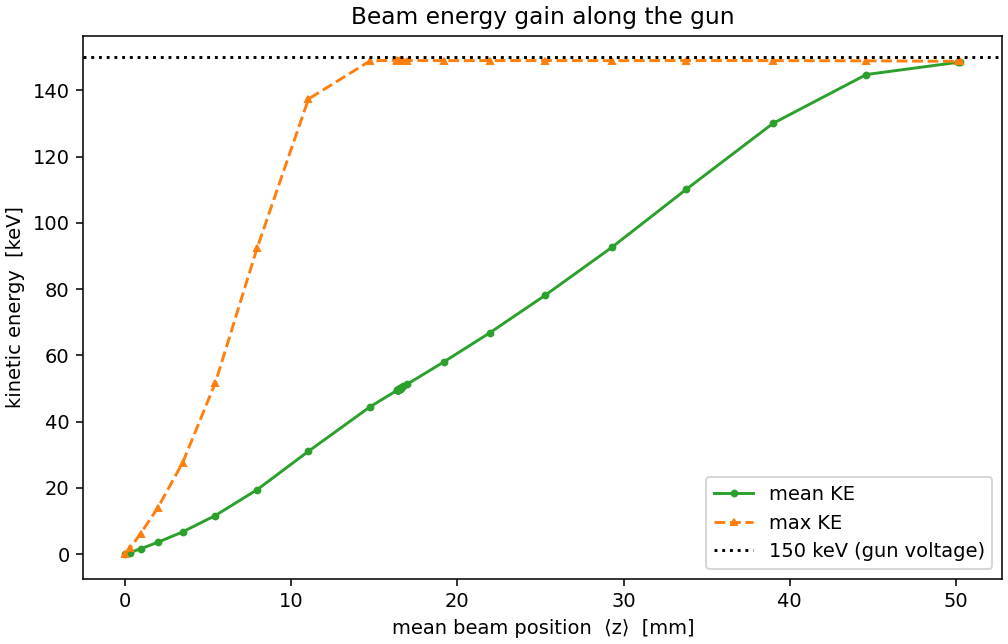
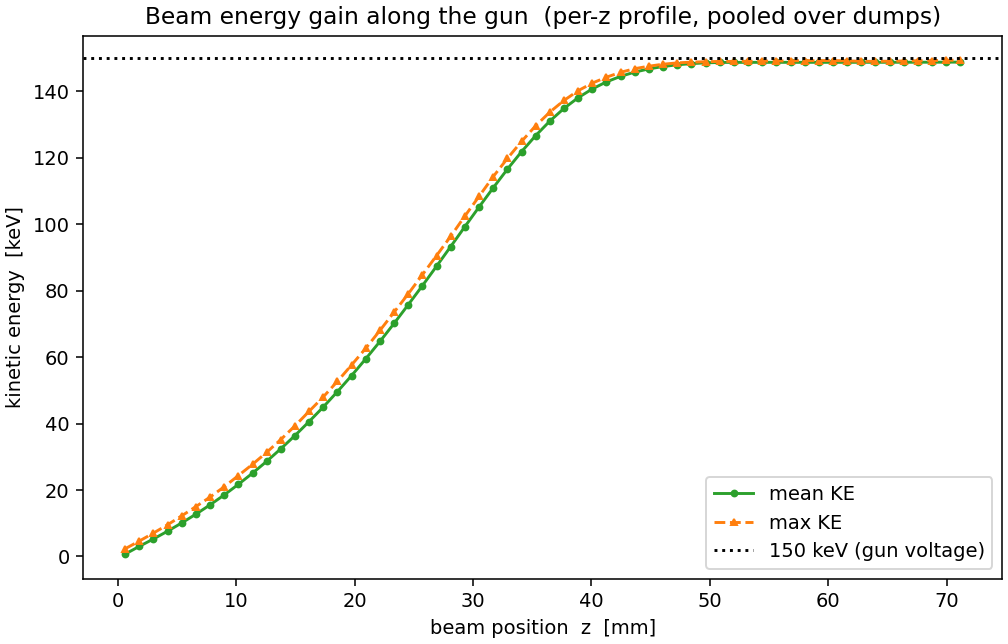
gun: fix physics-review findings in the time-release exit-beam handoff
Phase-2 fixes from the multi-agent physics review of the time-release commit.

CRITICAL (handoff εn,x inflated ~8×): build_exit_handoff drifted each id's last
in-domain dump to a common time, but the domain ended exactly at the field map
(no field-free region), so ~68% of ids were last-recorded still in-field and
drifting them as if field-free manufactured a spurious x-u correlation
(εn,x 6 -> 57 µm). Fix: extend the domain a field-free drift pad (ZPAD=20mm)
past ZMAX_FIELD (WarpX zero-fills the applied field beyond the map, verified),
grid nz 512->712 to keep dz~0.10mm across field+pad, and sample each id at its
FIRST appearance in the field-free pad before drifting. The handoff εn,x is now
the correct PROJECTED emittance of the long instantaneous beam (~45 µm; the
per-slice beam quality is ~5.7, the beam_envelope plateau).

HIGH (dead radial-loss filter): the r-at-last-dump test dropped 0 because
absorbed particles vanish before appearing at r>=RMAX. Now classify
non-pad-reaching ids as radial (r=RMAX) loss vs un-flushed tail (~0.4%).

MLMG abort: run length is now sized on the FIELD transit (not the padded domain)
so the run stops while the beam is in the pad; draining the padded domain empties
it and aborts the self-field solve.

MEDIUM (misleading figures): plot_gun energy_gain/beam_envelope aggregated per
DUMP <z>, meaningless for the quasi-DC stream (pins <z>, plots whole-stream
chromatic εn,x ~50). Now bins pooled particles by actual z (per-z profile).
[…]

diff --git a/gun/gun_sim.py b/gun/gun_sim.py
@@ -38,13 +38,15 @@ grid pulse (cathode_master.in `twidth=2`), four gun-transit-times long, so the p
 beam is a long, low-density quasi-DC stream — the original GPT deck emits it that way via
 `settdist(...,"t",...)`. Releasing the whole bunch at one instant ("snapshot") instead
 over-concentrates the charge and over-states the space-charge force (the WarpX–GPT
-150 kV-gun cross-code benchmark in CornellMisc/.../bench/writeup measured this beam-
-representation effect at ~28 % on emittance; here the over-dense snapshot also blows ~19 %
-of the beam off as halo it would otherwise keep). We therefore release the imported
-macroparticles over `PULSE_WIDTH` via a per-step injection callback (the benchmark's
-warpx_tr.py technique), and reconstruct the full ~2 ns exit beam for the injector by id-
-tracking it across the exit plane (`build_exit_handoff`). "snapshot" is kept for speed and
-back-compat. See README → *Beam source* for the handoff and the injector-retuning caveat.
+150 kV-gun cross-code benchmark in CornellMisc/.../bench/writeup put the *controlled* beam-
+representation term at ~28 % on emittance; here the over-dense snapshot ALSO blows the halo to
+the wall — ≈81 % vs ≈100 % transmission — so the two modes' raw εn,x are computed on different
+particle sets and their difference is confounded, see README). We release the imported
+macroparticles over `PULSE_WIDTH` (uniform/flat-top — the real pulse has 30 V/ns edge ramps,
+not modelled) via a per-step injection callback (the benchmark's warpx_tr.py technique), and
+reconstruct the full exit beam for the injector by id-tracking it through the field-free pad
+past the field map (`build_exit_handoff`). "snapshot" is kept for speed and back-compat. See
+README → *Beam source* for the handoff and the injector-retuning caveat.
 """
 
 import os
@@ -66,7 +68,18 @@ ep0 = picmi.constants.ep0
 GUN_FIELD = "gun/gun_field/gun_E.h5"
 GUN_VOLTAGE = 150.0e3        # [V]
 RMAX = 0.015                 # field-map R extent [m]
-ZMAX = 0.051765              # field-map Z extent [m]
+ZMAX_FIELD = 0.051765        # field-map Z extent [m] — the gun field ends here (Ez→0 at the
+                             # map edge, verified) and is the physical exit plane.
+# The RZ DOMAIN extends a field-free drift pad past the field map. WarpX zero-fills the
+# applied field beyond the map (verified), so z ∈ (ZMAX_FIELD, ZMAX] is a field-free drift.
+# This pad is REQUIRED by the timed-mode exit-beam reconstruction: build_exit_handoff samples
+# each particle AFTER it clears the field, in field-free space, where the drift-to-a-common-
+# time is emittance-preserving. Without the pad the domain ended exactly at the field map, so
+# the reconstruction drifted still-in-field particles as if field-free and inflated εn,x ~8×
+# (physics-review CRITICAL). ZPAD ≥ one inter-dump z-step (≈ v_exit·run_time/N_DIAGS ≈ 13 mm)
+# so every exiting particle is caught in ≥1 field-free dump before it leaves the domain.
+ZPAD = 0.020                 # field-free drift pad past the field map [m]
+ZMAX = ZMAX_FIELD + ZPAD     # full RZ domain z-extent [m]
 
 CATHODE_DIAG = "cathode/diags/particles"
 BUNCH_CHARGE = 1.0e-9        # renormalized gun bunch charge [C] = 1 nC, matching the
@@ -98,12 +111,13 @@ HANDOFF_DIR = "gun/diags/handoff"   # timed mode reconstructs the full released 
                              # dumps) for the injector; snapshot mode leaves it absent.
 
 # ── Grid (RZ, single azimuthal mode — the gun field is m = 0) ─────────────────
-# 128×512 (was 96×384): the WarpX–GPT 150 kV-gun cross-code benchmark
+# 128 (r) × 712 (z): the WarpX–GPT 150 kV-gun cross-code benchmark
 # (CornellMisc/.../bench/writeup) found εn,x falls ~4 % and only converges once the
 # grid resolves the near-cathode dynamics (their RZ study converged by nz≈720 over
-# 55 mm); the old nz=384 over 51.77 mm (dz≈135 µm) sat on the unconverged side. The
-# 1.33× refinement keeps the gun's near-isotropic cell aspect (dz/dr≈0.86).
-nr, nz = 128, 512            # divisible by the blocking factor (8)
+# 55 mm); the old nz=384 over 51.77 mm (dz≈135 µm) sat on the unconverged side. nz=712
+# over the padded 71.77 mm domain keeps dz≈101 µm (near-isotropic dz/dr≈0.86) across
+# BOTH the field region and the field-free pad (uniform grid).
+nr, nz = 128, 712            # divisible by the blocking factor (8)
 
 # ── Diagnostics output directory ──────────────────────────────────────────────
 DIAG_DIR = "gun/diags"
@@ -220,21 +234,26 @@ def build_exit_handoff():
     """Reconstruct the full time-released exit beam and write it for the injector.
 
     Time-release makes the gun beam a ~2 ns quasi-DC stream whose ballistic z-extent
-    (~v_exit·PULSE_WIDTH ≈ 0.38 m) is many times the 51.77 mm gun domain, so no single
-    volumetric snapshot can hold the whole released beam. We instead reconstruct it from
-    the volumetric dumps the same way `pipeline/collimator.py` tracks the iris scrape —
-    by particle **id** across dumps:
+    (~v_exit·PULSE_WIDTH ≈ 0.4 m) is many times the gun domain, so no single volumetric
+    snapshot can hold the whole released beam. We reconstruct it from the volumetric dumps
+    by particle **id** (the `pipeline/collimator.py` idiom), sampling each particle in the
+    FIELD-FREE pad past the field map so the reconstruction is emittance-correct:
 
-      1. For each macroparticle, find its LAST appearance (latest dump it is present in).
-      2. A particle last seen near the outer radial wall (r ≥ RMAX − tol) was scraped by
-         the pipe → dropped. Everything else left (or is leaving) through the z = ZMAX
-         exit plane → kept.
-      3. Drift every kept particle ballistically (field-free, past the map end) to a common
-         reference time t_ref = max last-appearance time, rebuilding one consistent
-         snapshot: early-emitted → exited early → drifted furthest → the bunch HEAD
-         (largest z); last-emitted → still at ZMAX → the TAIL. This matches the injector's
-         `z − z.min() + Z_INJECT` (tail at the entrance) convention and is the same
-         drift-to-a-common-reference the cross-code benchmark uses to read εn,x.
+      1. For each id, find its FIRST appearance with z ≥ ZMAX_FIELD — i.e. just after it
+         clears the gun field into the field-free pad. Its (x, u) there IS the exit-plane
+         phase space (the field is ≈0 beyond ZMAX_FIELD). Sampling in the pad — NOT at the
+         particle's last in-field dump — is the fix for the εn,x inflation: a field-free
+         ballistic drift preserves εn,x, but drifting a still-in-field particle as if
+         field-free manufactures a spurious x–u correlation (physics-review CRITICAL).
+      2. An id that NEVER reaches z ≥ ZMAX_FIELD did not exit: if it is still present in the
+         final dump it is the un-flushed tail (run ended first); otherwise it was absorbed
+         before the pad, i.e. scraped at the r = RMAX wall (the only other boundary) → a
+         radial loss. Both are dropped and counted (this correctly identifies losses — the
+         old r-at-last-dump test was a no-op because absorbed particles vanish at r<RMAX).
+      3. Drift the kept (field-free) samples to a common reference time t_ref = max sample
+         time — all motion is field-free so εn,x is preserved. early-emitted → exited
+         early → drifted furthest → bunch HEAD (largest z); last-emitted → z≈ZMAX_FIELD →
+         TAIL, matching the injector's `z − z.min() + Z_INJECT` (tail at the entrance).
 
     Writes an openPMD particle dump to HANDOFF_DIR via `pipeline.impact_io`. The injector's
     `load_gun_bunch` reads HANDOFF_DIR when present (else the volumetric snapshot).
@@ -243,16 +262,15 @@ def build_exit_handoff():
     from pipeline.impact_io import write_openpmd_particles
 
     MC2_EV = 510998.95069
-    r_tol = 2.0 * (RMAX / nr)        # within ~2 radial cells of the pipe ⇒ radial loss
     pdir = os.path.join(DIAG_DIR, "particles")
     ts = OpenPMDTimeSeries(pdir)
     if len(ts.iterations) == 0:
         print("  handoff: no volumetric dumps to reconstruct from — skipped", flush=True)
         return
 
-    # Stack every (id, dump) row, then keep each id's LAST appearance (latest dump time).
-    # Vectorized so the ~Npart×Ndumps rows never hit a Python-level loop.
+    # Stack every (id, dump) row. Vectorized so the ~Npart×Ndumps rows never hit a loop.
     cols = {k: [] for k in ("id", "t", "x", "y", "z", "ux", "uy", "uz", "w")}
+    final_it = ts.iterations[-1]
     for it, t_dump in zip(ts.iterations, ts.t):
         idp, x, y, z, ux, uy, uz, w = ts.get_particle(
             ["id", "x", "y", "z", "ux", "uy", "uz", "w"],
@@ -266,28 +284,38 @@ def build_exit_handoff():
         print("  handoff: no particles tracked — skipped", flush=True)
         return
     cat = {k: np.concatenate(v) for k, v in cols.items()}
-    # Sort by (id, t); the last row of each id-group is its last appearance.
-    order = np.lexsort((cat["t"], cat["id"]))
-    sid = cat["id"][order]
-    keep_last = np.empty(sid.size, dtype=bool)
-    keep_last[-1] = True
-    keep_last[:-1] = sid[1:] != sid[:-1]           # True where the id changes (group end)
-    pick = order[keep_last]
-    t_last = cat["t"][pick]
+    n_ids = np.unique(cat["id"]).size
+
+    # First appearance in the FIELD-FREE pad (z ≥ ZMAX_FIELD) per id: restrict to pad rows,
+    # sort by (id, t), take the earliest-t row of each id-group.
+    pad = np.where(cat["z"] >= ZMAX_FIELD)[0]
+    if pad.size == 0:
+        print("  handoff: no particle reached the field-free pad (z ≥ "
+              f"{ZMAX_FIELD*1e3:.1f} mm) — run longer? skipped", flush=True)
+        return
+    order = np.lexsort((cat["t"][pad], cat["id"][pad]))
+    sid = cat["id"][pad][order]
+    first = np.empty(sid.size, dtype=bool)
+    first[0] = True
+    first[1:] = sid[1:] != sid[:-1]                # True at each id-group start (earliest t)
+    pick = pad[order[first]]
+    t_s = cat["t"][pick]
     x, y, z = cat["x"][pick], cat["y"][pick], cat["z"][pick]
     ux, uy, uz, w = cat["ux"][pick], cat["uy"][pick], cat["uz"][pick], cat["w"][pick]
-    r = np.hypot(x, y)
-    kept = r < (RMAX - r_tol)                       # else: scraped at the pipe wall
-    n_lost = int((~kept).sum())
-    t_last, x, y, z, ux, uy, uz, w = (a[kept] for a in (t_last, x, y, z, ux, uy, uz, w))
-    if x.size == 0:
-        print("  handoff: every tracked particle hit the pipe wall — skipped", flush=True)
-        return
+    n_exit = pick.size
 
-    # Ballistic drift to the common reference time t_ref = max(t_last).
+    # Classify the ids that never reached the pad: still in the final dump → un-flushed tail;
+    # else absorbed before the pad → radial (r=RMAX) loss.
+    exited_ids = set(cat["id"][pick].tolist())
+    final_ids = set(cat["id"][cat["t"] == ts.t[-1]].tolist()) if len(ts.t) else set()
+    not_exited = [i for i in np.unique(cat["id"]).tolist() if i not in exited_ids]
+    n_unflushed = sum(1 for i in not_exited if i in final_ids)
+    n_radial = len(not_exited) - n_unflushed
+
+    # Ballistic drift of the field-free samples to a common reference time t_ref = max(t_s).
     gamma = np.sqrt(1.0 + ux**2 + uy**2 + uz**2)
     vx, vy, vz = (c * ux / gamma, c * uy / gamma, c * uz / gamma)
-    dtau = t_last.max() - t_last
+    dtau = t_s.max() - t_s
     xh, yh, zh = x + vx * dtau, y + vy * dtau, z + vz * dtau
 
     pg = ParticleGroup(data=dict(
@@ -301,8 +329,9 @@ def build_exit_handoff():
     if os.path.isdir(HANDOFF_DIR):
         shutil.rmtree(HANDOFF_DIR)
     write_openpmd_particles(pg, HANDOFF_DIR, iteration=0, time=0.0)
-    print(f"  handoff: {xh.size} exit-beam macroparticles "
-          f"({pg.charge*1e9:.3f} nC, {n_lost} scraped at the pipe), "
+    print(f"  handoff: {n_exit}/{n_ids} macroparticles cleared the field "
+          f"({pg.charge*1e9:.3f} nC, transmission {100*n_exit/n_ids:.0f}%; "
+          f"{n_radial} radial loss, {n_unflushed} un-flushed), "
           f"z-extent {(zh.max()-zh.min())*1e3:.0f} mm → {HANDOFF_DIR}", flush=True)
 
 
@@ -382,13 +411,15 @@ def main():
     # Steps for the bunch to just cross the full gun (average speed ~AVG_SPEED_FRAC·v_exit).
     # We stop as the beam reaches the exit: running longer empties the domain, and
     # the Multigrid self-field solve aborts when there is essentially no charge left.
-    # In timed mode the gun stays populated until the LAST-emitted particle (released at
-    # t=PULSE_WIDTH) has crossed, so the run is PULSE_WIDTH + one transit long (the domain
-    # never fully empties mid-run, so the MLMG solve is not starved). MAX_STEPS (module
+    # Run length is sized on the time to clear the FIELD region (ZMAX_FIELD), NOT the full
+    # padded domain: the run must STOP while the beam is still in the field-free pad, before
+    # it drains out the padded ZMAX — an empty domain aborts the MLMG self-field solve
+    # (`MLMG failed`). At PULSE_WIDTH + TRANSIT_MARGIN·transit_field the last-released particle
+    # has cleared the field into the pad (caught in ≥1 field-free dump for the handoff) while
+    # the bulk is still transiting, so the solve is never charge-starved. MAX_STEPS (module
     # constant, 0 = auto) overrides the derived value when set.
-    transit_time = ZMAX / (AVG_SPEED_FRAC * v_exit)
-    run_time = (PULSE_WIDTH + TRANSIT_MARGIN * transit_time) if timed \
-        else (TRANSIT_MARGIN * transit_time)
+    transit_field = ZMAX_FIELD / (AVG_SPEED_FRAC * v_exit)
+    run_time = (PULSE_WIDTH if timed else 0.0) + TRANSIT_MARGIN * transit_field
     max_steps = MAX_STEPS or int(run_time / dt)
 
     print(f"Gun: {GUN_VOLTAGE/1e3:.0f} kV  ->  γ={gamma:.3f}, β={v_exit/c:.3f}, "

diff --git a/gun/plot_gun.py b/gun/plot_gun.py
@@ -80,6 +80,14 @@ def main():
 
     t_ns, zmean, ke_mean, ke_max, n_live = [], [], [], [], []
     sig_r, emit_nx = [], []           # for beam_envelope.png (filled in the same loop)
+    # Pooled (all-dump) particle columns for the per-z PROFILE used by energy_gain /
+    # beam_envelope. A per-DUMP ⟨z⟩ aggregate traces a compact bunch but is meaningless for
+    # the timed quasi-DC stream — every dump then holds the whole 0→exit stream, so ⟨z⟩ is
+    # pinned mid-domain and the per-dump εn,x is the whole-stream chromatic mix (~50 mm·mrad,
+    # NOT the exit emittance). Binning every dump's particles by their ACTUAL z instead gives
+    # the physical steady-state profile KE(z)/σ_x(z)/εn,x(z), and reduces to the bunch
+    # trajectory for the compact snapshot beam (see beam_envelope/energy_gain below).
+    z_pool, ke_pool, x_pool, ux_pool, w_pool = [], [], [], [], []
     for i, it in enumerate(iters):
         z, x, ux, uy, uz, w = ts.get_particle(
             ["z", "x", "ux", "uy", "uz", "w"], species="electrons", iteration=it)
@@ -92,6 +100,7 @@ def main():
         ke = (gamma_of(ux, uy, uz) - 1.0) * MC2
         zmean.append(z.mean() * 1e3)
         ke_mean.append(ke.mean()); ke_max.append(ke.max())
+        z_pool.append(z); ke_pool.append(ke); x_pool.append(x); ux_pool.append(ux); w_pool.append(w)
         # ── Envelope diagnostics (one transverse plane; RZ ⇒ x and y are equivalent) ──
         # Per-plane RMS size σ_x = sqrt(⟨(x−⟨x⟩)²⟩), reported in mm — weighted and
         # mean-centered, matching pipeline/plot_chain.py so the two figures agree on the
@@ -113,6 +122,29 @@ def main():
     print(f"beam: {n_live[0]} launched, {n_live[-1]} at last dump; "
           f"peak ⟨KE⟩ {np.nanmax(ke_mean):.1f} keV, max KE {np.nanmax(ke_max):.1f} keV")
 
+    # ── Per-z PROFILE (pooled over all dumps), binned by actual z ──────────────
+    # See the pooling note above: this is the physically meaningful aggregation for the
+    # timed quasi-DC stream (and equivalent to the trajectory for the snapshot bunch).
+    zc = kez = kezmax = sxz = enz = np.array([])
+    if z_pool:
+        zP = np.concatenate(z_pool); keP = np.concatenate(ke_pool)
+        xP = np.concatenate(x_pool); uxP = np.concatenate(ux_pool); wP = np.concatenate(w_pool)
+        nbin = 60
+        edges = np.linspace(0.0, zP.max(), nbin + 1)
+        idx = np.clip(np.digitize(zP, edges) - 1, 0, nbin - 1)
+        zc = 0.5 * (edges[:-1] + edges[1:]) * 1e3      # bin centers [mm]
+        kez = np.full(nbin, np.nan); kezmax = np.full(nbin, np.nan)
+        sxz = np.full(nbin, np.nan); enz = np.full(nbin, np.nan)
+        for b in range(nbin):
+            m = idx == b
+            if m.sum() < 20:                            # ignore sparse edge bins
+                continue
+            xb, uxb, wb, keb = xP[m], uxP[m], wP[m], keP[m]
+            kez[b] = np.average(keb, weights=wb); kezmax[b] = keb.max()
+            xm = np.average(xb, weights=wb)
+            sxz[b] = np.sqrt(np.average((xb - xm) ** 2, weights=wb)) * 1e3
+            enz[b] = rms_emit(xb, uxb, wb) * 1e6
+
     # ── Fig 2: r–z at launch / mid / exit ─────────────────────────────────────
     live = [it for it, n in zip(iters, n_live) if n > 0]
     picks = [live[0], live[len(live)//2], live[-1]] if len(live) >= 3 else live
@@ -130,15 +162,15 @@ def main():
     fig.savefig(f"{RESULTS}/beam_rz.png", dpi=140)
     print(f"wrote {RESULTS}/beam_rz.png")
 
-    # ── Fig 3: energy gain vs ⟨z⟩ ─────────────────────────────────────────────
+    # ── Fig 3: energy gain vs z (per-z profile, pooled over dumps) ─────────────
     fig, ax = plt.subplots(figsize=(7.2, 4.6), constrained_layout=True)
-    ok = np.isfinite(zmean)
-    ax.plot(zmean[ok], ke_mean[ok], "o-", color="C2", ms=3, label="mean KE")
-    ax.plot(zmean[ok], ke_max[ok], "^--", color="C1", ms=3, label="max KE")
+    okz = np.isfinite(kez)
+    ax.plot(zc[okz], kez[okz], "o-", color="C2", ms=3, label="mean KE")
+    ax.plot(zc[okz], kezmax[okz], "^--", color="C1", ms=3, label="max KE")
     ax.axhline(GUN_VOLTAGE / 1e3, color="k", ls=":", label=f"{GUN_VOLTAGE/1e3:.0f} keV (gun voltage)")
-    ax.set_xlabel("mean beam position  ⟨z⟩  [mm]")
+    ax.set_xlabel("beam position  z  [mm]")
     ax.set_ylabel("kinetic energy  [keV]")
-    ax.set_title("Beam energy gain along the gun")
+    ax.set_title("Beam energy gain along the gun  (per-z profile, pooled over dumps)")
     ax.legend()
     fig.savefig(f"{RESULTS}/energy_gain.png", dpi=140)
     print(f"wrote {RESULTS}/energy_gain.png")
@@ -162,16 +194,16 @@ def main():
     # ══════════════════════════════════════════════════════════════════════════
     # Fig 5: beam_envelope.png — per-plane RMS size σ_x and emittance εn,x vs ⟨z⟩
     # ──────────────────────────────────────────────────────────────────────────
-    ok = np.isfinite(zmean) & np.isfinite(sig_r)
+    okz = np.isfinite(sxz) & np.isfinite(enz)
     fig, ax = plt.subplots(figsize=(7.6, 4.6), constrained_layout=True)
-    l1, = ax.plot(zmean[ok], sig_r[ok], "o-", color="C0", ms=3,
+    l1, = ax.plot(zc[okz], sxz[okz], "o-", color="C0", ms=3,
                   label=r"RMS size  $\sigma_x=\sqrt{\langle x^2\rangle}$")
-    ax.set_xlabel("mean beam position  ⟨z⟩  [mm]")
+    ax.set_xlabel("beam position  z  [mm]")
     ax.set_ylabel(r"per-plane RMS size  $\sigma_x$  [mm]", color="C0")
     ax.tick_params(axis="y", labelcolor="C0")
-    ax.set_title("Transverse envelope and emittance along the gun")
+    ax.set_title("Transverse envelope and emittance along the gun  (per-z profile)")
     ax2 = ax.twinx()
-    l2, = ax2.plot(zmean[ok], emit_nx[ok], "s--", color="C3", ms=3,
+    l2, = ax2.plot(zc[okz], enz[okz], "s--", color="C3", ms=3,
                    label=r"norm. emittance  $\varepsilon_{n,x}$")
     ax2.set_ylabel(r"$\varepsilon_{n,x}$  [mm·mrad]", color="C3")
     ax2.tick_params(axis="y", labelcolor="C3")

diff --git a/pipeline/run_pipeline.py b/pipeline/run_pipeline.py
@@ -89,9 +89,15 @@ linac_rest.config(POWER_MW=11.0)                      # one power convention acr
 
 # ── Performance knobs (accuracy ↔ speed). Full knob list, runtime split, and the
 #    reason the injector NZ must stay at 1664: see pipeline/README.md § Configuration. ──
-# Balanced profile: ACTIVE (~1.7×, ~5 min). Comment these 3 lines for the baseline.
+# Balanced profile: ACTIVE. Comment these 3 lines for the baseline. NOTE: the gun now defaults
+# to the realistic time-release beam (BEAM_RELEASE="timed") over the full 2 ns pulse on a
+# field-free-padded grid, plus the ~2×-per-step electromagnetostatic self-field — so the GUN
+# dominates the chain runtime (several minutes) regardless of this profile. nz=384 here is a
+# Balanced resolution over the padded 71.77 mm domain (dz≈0.19 mm); the default is 712. For a
+# quick smoke run use gun.config(BEAM_RELEASE="snapshot") (NOT realistic — over-states space
+# charge) and/or a coarser nz.
 cathode.config(PPC=6, REQUIRED_PRECISION=3e-5)
-gun.config(nz=256, MAX_PART=50000, REQUIRED_PRECISION=1e-4)
+gun.config(nz=384, MAX_PART=50000, REQUIRED_PRECISION=1e-4)
 injector.config(CFL=0.95, MAX_ITERS=150, REQUIRED_PRECISION=1e-3)
 # Conservative (~1.3×, near-identical):
 # gun.config(MAX_PART=80000, REQUIRED_PRECISION=1e-4)

diff --git a/pipeline/plot_chain.py b/pipeline/plot_chain.py
@@ -35,8 +35,10 @@ PHYSICS / UNITS NOTES (reviewer-flagged):
     (gun/injector downsample-reweight), so panel (5) shows WITHIN-stage transmission and the
     waterfall stitches the true end-to-end chain via the recorded denominators.
   - Lab-frame ES self-field overestimates transverse space charge by ~γ² (≈1.66× at β≈0.7);
-    the injector/linac σ_x and capture numbers are conservative (pessimistic) — noted on the
-    panels.
+    this applies to the **injector/linac** stages (still lab-frame ES, and SC-dominant), whose
+    σ_x and capture numbers are therefore conservative (pessimistic) — noted on the panels. The
+    GUN is the exception: it uses the electromagnetostatic solver (self-B pinch ⇒ net qE_r/γ²),
+    so it carries no γ² overestimate.
 """
 
 import os

diff --git a/.claude/CLAUDE.md b/.claude/CLAUDE.md
@@ -97,7 +97,7 @@ Each stage lives in its own `<stage>/` directory and follows the same script lay
 `pipeline/run_pipeline.py` orchestrates the whole chain by calling `cathode.run()`, `gun.run()`, `injector.run()`, `linac_sec1.run()`, `linac_rest.run()` in order, then `pipeline.plot_chain.main()` for the cross-stage figures (`results/`). The shared runner in `pipeline/_runner.py` builds field maps and generates plots **in-process**, but spawns a **fresh Python subprocess** (`pipeline/_launch_sim.py`) for each sim — pywarpx binds globally to one geometry (2D/RZ/3D) at first `.so` load and caches diagnostic state by name, so chaining cathode (2D) → gun (RZ) → injector (RZ) in one interpreter would trip `AssertionError: Diagnostic attributes not consistent`. Inside each sim, `run_step(...)` installs a `pywarpx.callbacks.installcallback("afterstep", …)` hook to drive a tqdm progress bar and redirects WarpX's noisy per-step stdout to the pipeline log file, so the bar updates on a clean terminal line. A structured DEBUG log lands in `pipeline/logs/pipeline_<timestamp>.log`. The cathode is 2D x–z; the gun, injector, and linac_sec1 are RZ (cylindrically symmetric).
 
 - The default chain writes `injector/diags/main`; the power/phase scan facility survives as an optional per-case `OUTDIR` override (`injector/diags/<case>`). `injector.resolve_outdir()` returns `injector/diags/main` by default.
-- The **gun beam representation** is `BEAM_RELEASE` (default `"timed"`): the CESR gun is gated by a **2 ns grid pulse** (`cathode_master.in twidth=2`, ~4× the ~0.47 ns gun transit), so the physical beam is a long, low-density quasi-DC stream (the original GPT deck emits it via `settdist(...,"t",...)`). `"timed"` releases the imported cathode macroparticles over `PULSE_WIDTH` with a per-step `installbeforestep` `add_particles` callback (the WarpX *write* path works in this RZ build — only the *read* accessor is broken); `"snapshot"` injects all 1 nC at t=0, which over-concentrates the charge and over-states space charge (the WarpX–GPT 150 kV-gun cross-code benchmark, `CornellMisc/.../bench/writeup`, put the beam-representation effect at ~28% on emittance; here the over-dense snapshot additionally scrapes ~19% of the beam as halo — measured timed≈100% vs snapshot≈81% transmission, same grid/charge). The released beam's ~0.38 m ballistic extent can't fit the 51.77 mm domain in one snapshot, so `build_exit_handoff()` reconstructs the full exit beam by **id-tracking across the volumetric dumps** (same idiom as `pipeline/collimator.py`: last-appearance per id, drop pipe-wall `r≥RMAX` radial losses, drift survivors to a common reference time) and writes `gun/diags/handoff` via `pipeline.impact_io.write_openpmd_particles`; the injector reads `handoff` when present. **Caveat:** the injector prebuncher phases were tuned to the compact snapshot handoff, so the longer timed beam shifts that operating point — re-validation is a follow-up (the LinacSim reconciliation backlog), the handoff wiring is done. The same benchmark also cross-validates the gun's electromagnetostatic (γ²) self-field, its dirichlet (not neumann) cathode-image z=0 plate, and motivated the finer **128×512** grid (near-cathode εn,x convergence). The cathode stage needs no change — it is already a continuous-flux (time-release) emitter and non-relativistic.
+- The **gun beam representation** is `BEAM_RELEASE` (default `"timed"`): the CESR gun is gated by a **2 ns grid pulse** (`cathode_master.in twidth=2`, ~4× the ~0.47 ns gun transit), so the physical beam is a long, low-density quasi-DC stream (the original GPT deck emits it via `settdist(...,"t",...)`). `"timed"` releases the imported cathode macroparticles over `PULSE_WIDTH` with a per-step `installbeforestep` `add_particles` callback (the WarpX *write* path works in this RZ build — only the *read* accessor is broken); `"snapshot"` injects all 1 nC at t=0, which over-concentrates the charge and over-states space charge (the WarpX–GPT 150 kV-gun cross-code benchmark, `CornellMisc/.../bench/writeup`, put the beam-representation effect at ~28% on emittance; here the over-dense snapshot additionally scrapes ~19% of the beam as halo — measured timed≈100% vs snapshot≈81% transmission, same grid/charge). The released beam's ~0.4 m ballistic extent can't fit the gun domain in one snapshot, so `build_exit_handoff()` reconstructs the full exit beam by **id-tracking across the volumetric dumps** (same idiom as `pipeline/collimator.py`). CRITICAL gotcha (physics-review): the domain must extend a **field-free drift pad** (`ZPAD`) past the field map (`ZMAX_FIELD`; WarpX zero-fills the applied field beyond the map, verified) and the reconstruction must sample each id at its **first appearance in that field-free pad** (z≥`ZMAX_FIELD`) — a field-free ballistic drift to a common reference time preserves εn,x, but sampling/drifting a still-in-field particle (the naive last-in-domain dump) manufactures a spurious x–u correlation and inflates the handoff εn,x **~8×**. Run length is sized on the FIELD transit (not the padded domain) so the run stops while the beam is in the pad — draining the padded domain empties it and aborts the MLMG solve (`MLMG failed`). Non-pad-reaching ids are classified radial-`r=RMAX` loss vs un-flushed tail (~2%, finite run). The handoff εn,x is the **projected** emittance of the ~0.4 m instantaneous beam (head drifted longer than tail — physical, larger than a per-slice screen value). Writes `gun/diags/handoff` via `pipeline.impact_io.write_openpmd_particles`; the injector reads `handoff` when present. **Caveat:** the injector prebuncher phases were tuned to the compact snapshot handoff, so the longer timed beam shifts that operating point — re-validation is a follow-up (the LinacSim reconciliation backlog), the handoff wiring is done. The same benchmark also cross-validates the gun's electromagnetostatic (γ²) self-field, its dirichlet (not neumann) cathode-image z=0 plate, and motivated the finer **128×712** grid (near-cathode εn,x convergence, over the field-free-padded domain). The cathode stage needs no change — it is already a continuous-flux (time-release) emitter and non-relativistic.
 - `linac_sec1` no longer builds `linac_sol.h5` or carries `I_SOL`/`SOL_Z`/`SOL_MAP` — transverse focusing moved upstream into the injector (the three real lenses at their true lab z). Its only applied fields are the two SLAC quadrature RF maps; its `RMAX=9.547 mm` is the SLAC bore / injector→linac collimator iris. The physical iris collimation is a **multi-plane id scrape** applied in `load_injector_bunch` (`pipeline/collimator.py`): only particles that pass the 9.547 mm iris/pipe at *every* plane from z=1.922 m on are injected — NOT a single `r ≤ RMAX` cut at the 2.03 m handoff (the beam converges through the 1.922→2.03 m tail, so a single 2.03 m cut would keep halo the real iris scrapes and overstate transmission ~3×).
 - `linac_rest` (sections 2–8) is the **one non-WarpX stage**: an external serial **Impact-T** run (`ImpactTexe`) driven via **lume-impact**, so it runs **in-process** (`pipeline._impact_runner.ImpactStage`) rather than in a per-stage subprocess (no pywarpx global-geometry binding to isolate) — but it still reuses `_prepare_environment()` (repo-root chdir + RLIMIT_NOFILE raise — `impact_io`/`plot_chain` loop openPMD dumps and hit the 256-fd wall) + `setup_logging()`, and redirects `ImpactTexe` stdout into the pipeline log. There are **no field maps** for sec 2–8 (none exist); all seven generic-constant-gradient TW sections reuse the vendored lume-impact `traveling_wave_cavity` template shape (`linac_rest/rfdata/rfdata4–7`, committed) as the 4-line `solrf` superposition, with **all** per-section physics in the calibrated `rf_field_scale` (R/τ/shunt impedance are NOT encoded — already in the ΔE table). Default `POWER_MW=11`, `√P`-scaled per section; achieved exit ≈308 MeV (307.97 MeV survivor mean through the real bore; 309.2 MeV full-beam). SC off, quads at real lengths but K1=0 (A→T undocumented) for the headline. Impact-T gotchas / **three plan deviations** (read `linac_rest/README.md` before modifying): **(1) per-section absolute-phase crest-finding** — Impact-T `theta0_deg` is an *absolute* phase, so on a chained multi-section deck the bunch's arrival phase walks hundreds of degrees per section ⇒ literal `θ0=0` is on-crest only for section 2; each section's crest is found per-section (max-ΔE phase scan + parabolic refine, `calibration._find_crest_phase`) then the `rf_field_scale` ControlGroup is `brentq`-fit to ΔE_target — this realizes true on-crest operation, correcting the plan's literal-`θ0=0` assumption (the calibration metric `mean_energy` is *total* energy in eV, not KE). **(2) the 12 MeV `MIN_KE_MEV` model-validity cut** — the on-crest, no-per-section-rephasing model is valid only for β>0.999, so the sub-12-MeV (β<0.99917) slipping tail of the sec-1 exit (~12% of charge) is dropped at the handoff as a **model-validity cut (NOT a physical aperture)** and counted as loss; `injection_summary.json` `q_injected_C` = the **full** sec-1 captured charge (honest denominator), with the dropped tail + tracked core recorded separately, so end-to-end capture stays ~6–7%. **(3) the quads-OFF headline does NOT transversely confine the beam — the ENERGY result is the headline, transmission is only a no-focusing lower bound.** With no quad focusing over the 36 m line the beam genuinely diverges. Transmission is measured against the **real tapered bore** (`section_bore_radii`, ~12.6→9.9 / 14.7→11.7 mm): `BORE_APERTURE_ON` **defaults True**, so the aperture is the actual machine beampipe, NOT a tunable numerical box — deliberately, because an oversized containment box (e.g. an `Xrad/Yrad` widened to 0.30 m) would manufacture transmission≈1.0 by counting a 30-cm-radius beam as "transmitted," which is meaningless; the real bore makes the number physically anchored and un-gameable. The robust, quad-INDEPENDENT deliverable is the longitudinal physics — exit ⟨KE⟩ ≈ 308 MeV (307.97 survivors / 309.2 full-beam; the ~1.2 MeV gap is the bore scraping lower-energy off-axis particles), per-section ΔE <0.05% — which does not depend on transverse confinement. **Transmission/capture through sections 2–8 is NOT predicted by the quads-OFF headline**: the count-based loss (measured `n_out/n_in` against the real bore — already the binding aperture for the headline, `BORE_APERTURE_ON` defaults True — *before* the openPMD charge re-imposition so it can't be masked) is a *no-focusing model-artifact LOWER BOUND* — **quads-OFF transmission ≈ 78.5 %, end-to-end capture ≈ 4.78 %** of the true-injected charge at the injector→linac handoff (`linac_sec1`'s recorded `q_injected_C`, ~0.75 nC — NOT a cathode quantity; quoted from the recorded run summaries, not computed by `plot_chain`) — NOT real-machine loss; the real FODO lattice (quad A→T calibrations undocumented, `details.md`) contains the beam, so the true transmission is higher. Docs report it as a lower bound with that caveat, never as ~1.0 and never via a widened box. `QUADS_ON=True` turns the inert quads into a real **exploratory** focusing lattice: per-quad `b1_gradient` are derived from optics by `build_linac_rest_lattice.fodo_quad_gradients` — an **energy-scaled constant-phase-advance FODO** (nominal μ=50°/cell, field-free half-cell `L_h`, gradient scaled by the local Bρ, lead-pole sign alternating gap-to-gap), NOT measured quad current (A→T missing). Each gap is a real **H/V doublet**: the tabulated machine quad is split into **two opposite-sign `qL/2` halves back-to-back** (`quad{N}a` lead pole + `quad{N}b` its negation, summing to `qL`), which **net-focuses BOTH transverse planes** (a single thick quad of one sign over the multi-metre half-cell defocuses one plane and over-pinches — that was the rejected first attempt). Two approximations are stamped on every QUADS_ON output: the inter-quad multi-metre RF section is treated as a thin-lens drift (μ is **nominal, not realized** — the acceptance is σ_x/σ_y *boundedness*, not a measured 50°), and the K1 **magnitude** is guessed (A→T undocumented, order-of-magnitude only). The sim **calibrates on a quads-OFF, zero-quad-radius deck** (energy gain is transverse-independent on-axis ⇒ gates 1/2 PASS identically OFF/ON) then builds a **fresh** quads-ON run deck with the calibrated scales+phases (`cal._set_group_scale` carries the absolute `rf_field_scale` ControlGroup over — a naive scale carry-over would silently run zero-field). The new quad/inter-section-drift element `radius` is the real **exit** section bore (`section_bore_radii(i)[1]`) gated on **`quads_on`** (NOT `bore_aperture_on`, which is already True — gating on it would silently regress the headline 78.5%); the box `XYRAD_M` is never widened. **The QUADS_ON deliverable is the BOUNDED, out-of-phase oscillating σ_x/σ_y envelope (both planes contained, σ ≈ 0.6–4.4 mm over 36 m, no blow-up) with the longitudinal headline preserved (exit ⟨KE⟩ ≈ 309 MeV, gates 1/2/5/6 PASS) — NOT a transmission claim.** Transmission lands **≈ the quads-OFF baseline (~78.2 %), NOT above it** (soft/print-only, never a hard gate), for two structural reasons: the doublet halves now carry the exit-bore `radius` aperture the no-quad baseline lacks (extra scrape planes), and the beam expands σ ~1.2→4.4 mm over the first ~3.5 m before the first quad (placed *after* section 2) can act. There is **no "> 78.5 %" / predictive-transmission claim**. A soft `envelope_in_bore` (3σ < min bore) check prints (FAIL both OFF/ON — ~19 mm OFF vs ~13 mm ON; the win is the smaller, bounded envelope, not the threshold); every figure/summary stays labeled "placeholder optics — guessed K1, A→T undocumented, H/V doublet (±g qL/2 halves), nominal μ." Magnitude is un-validated. Other Impact-T gotchas: an under-sized `Ntstep` reports `finished=True` falsely (the run **asserts `I.stat("mean_z")[-1]` reached the final zedge**); `autophase()` no-arg throws on a non-cathode beam (calibration phases/scales explicitly); `ParticleGroup.write()` emits a STRING-attr openPMD the viewer rejects (handoff OUT uses `pipeline/impact_io.py`); and `ParticleGroup.species` is `"electron"` (singular) but the openPMD output + cross-stage readers key on `"electrons"` (plural).
 
